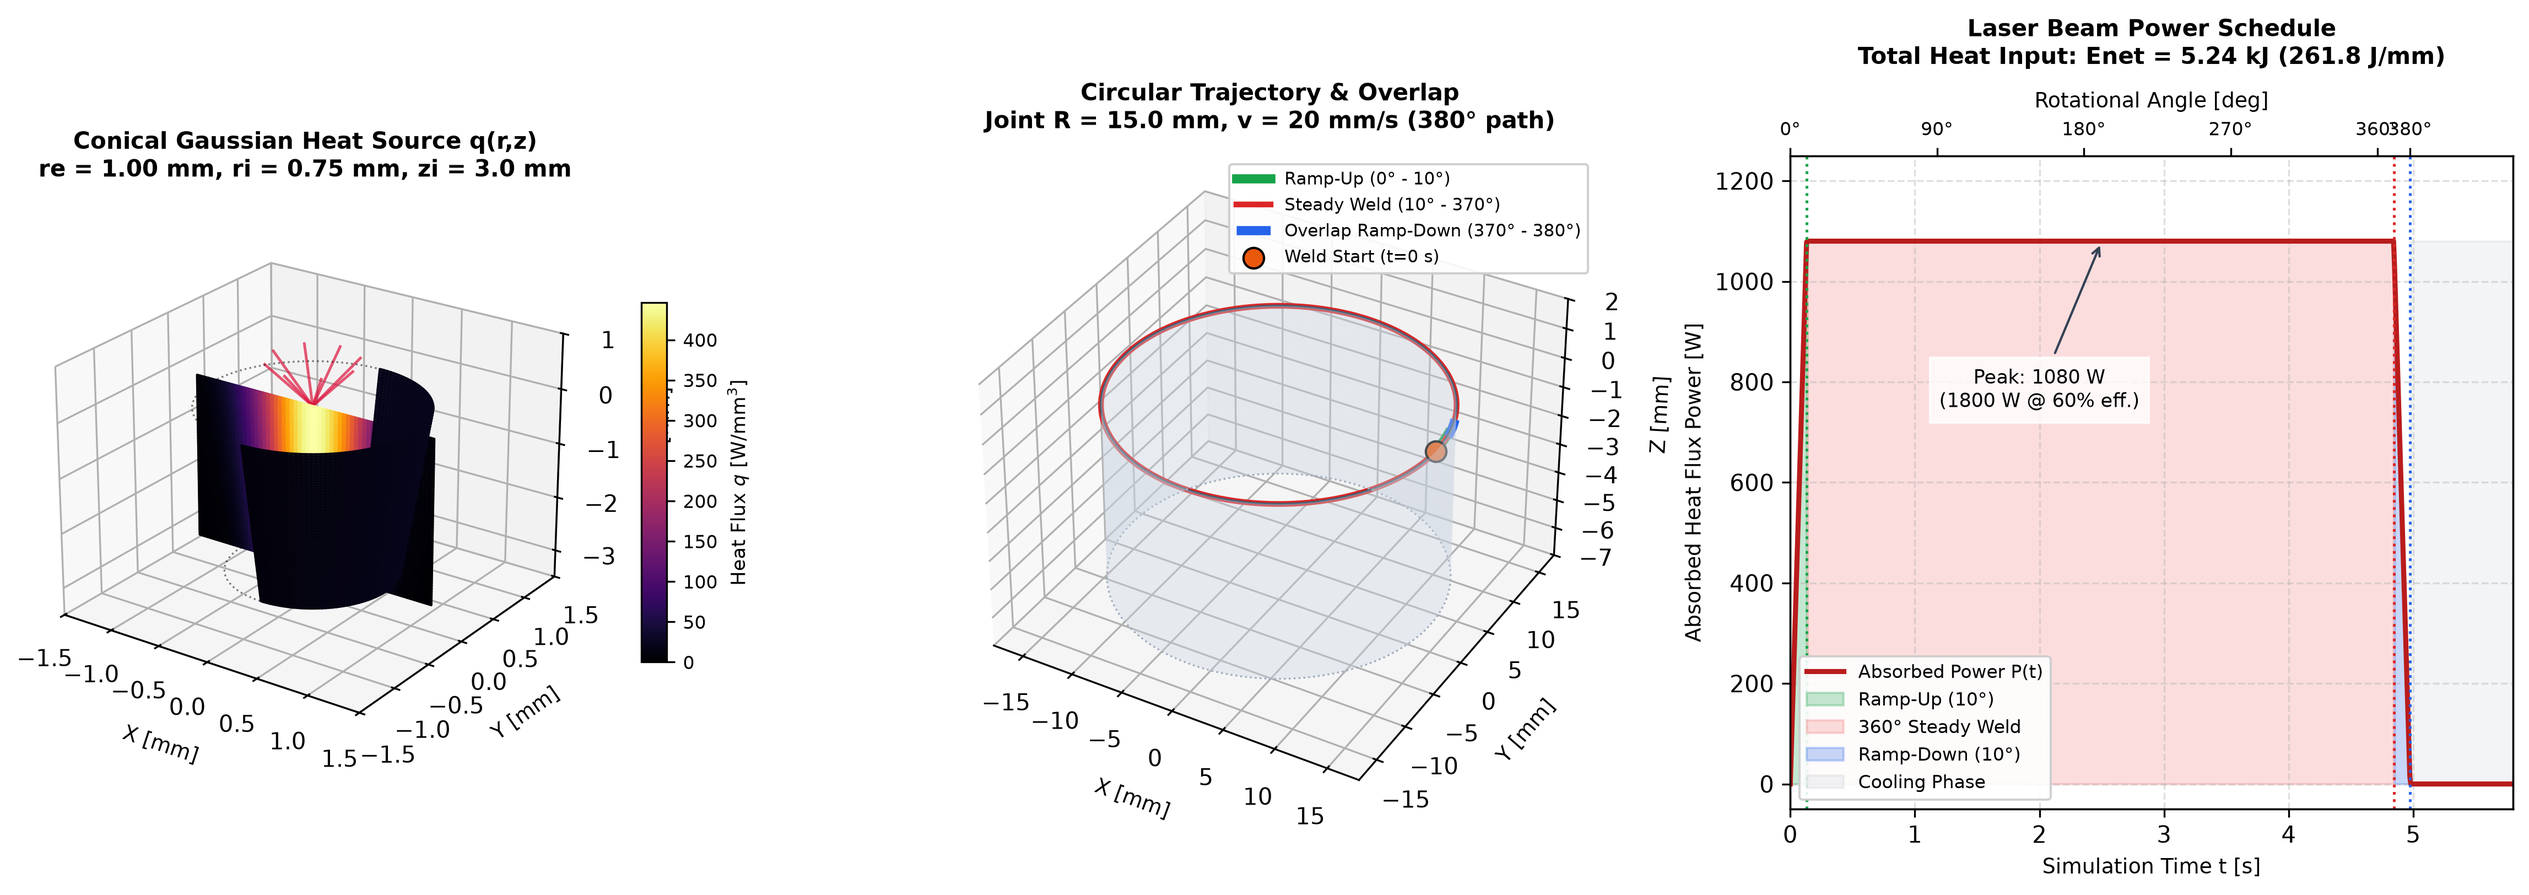
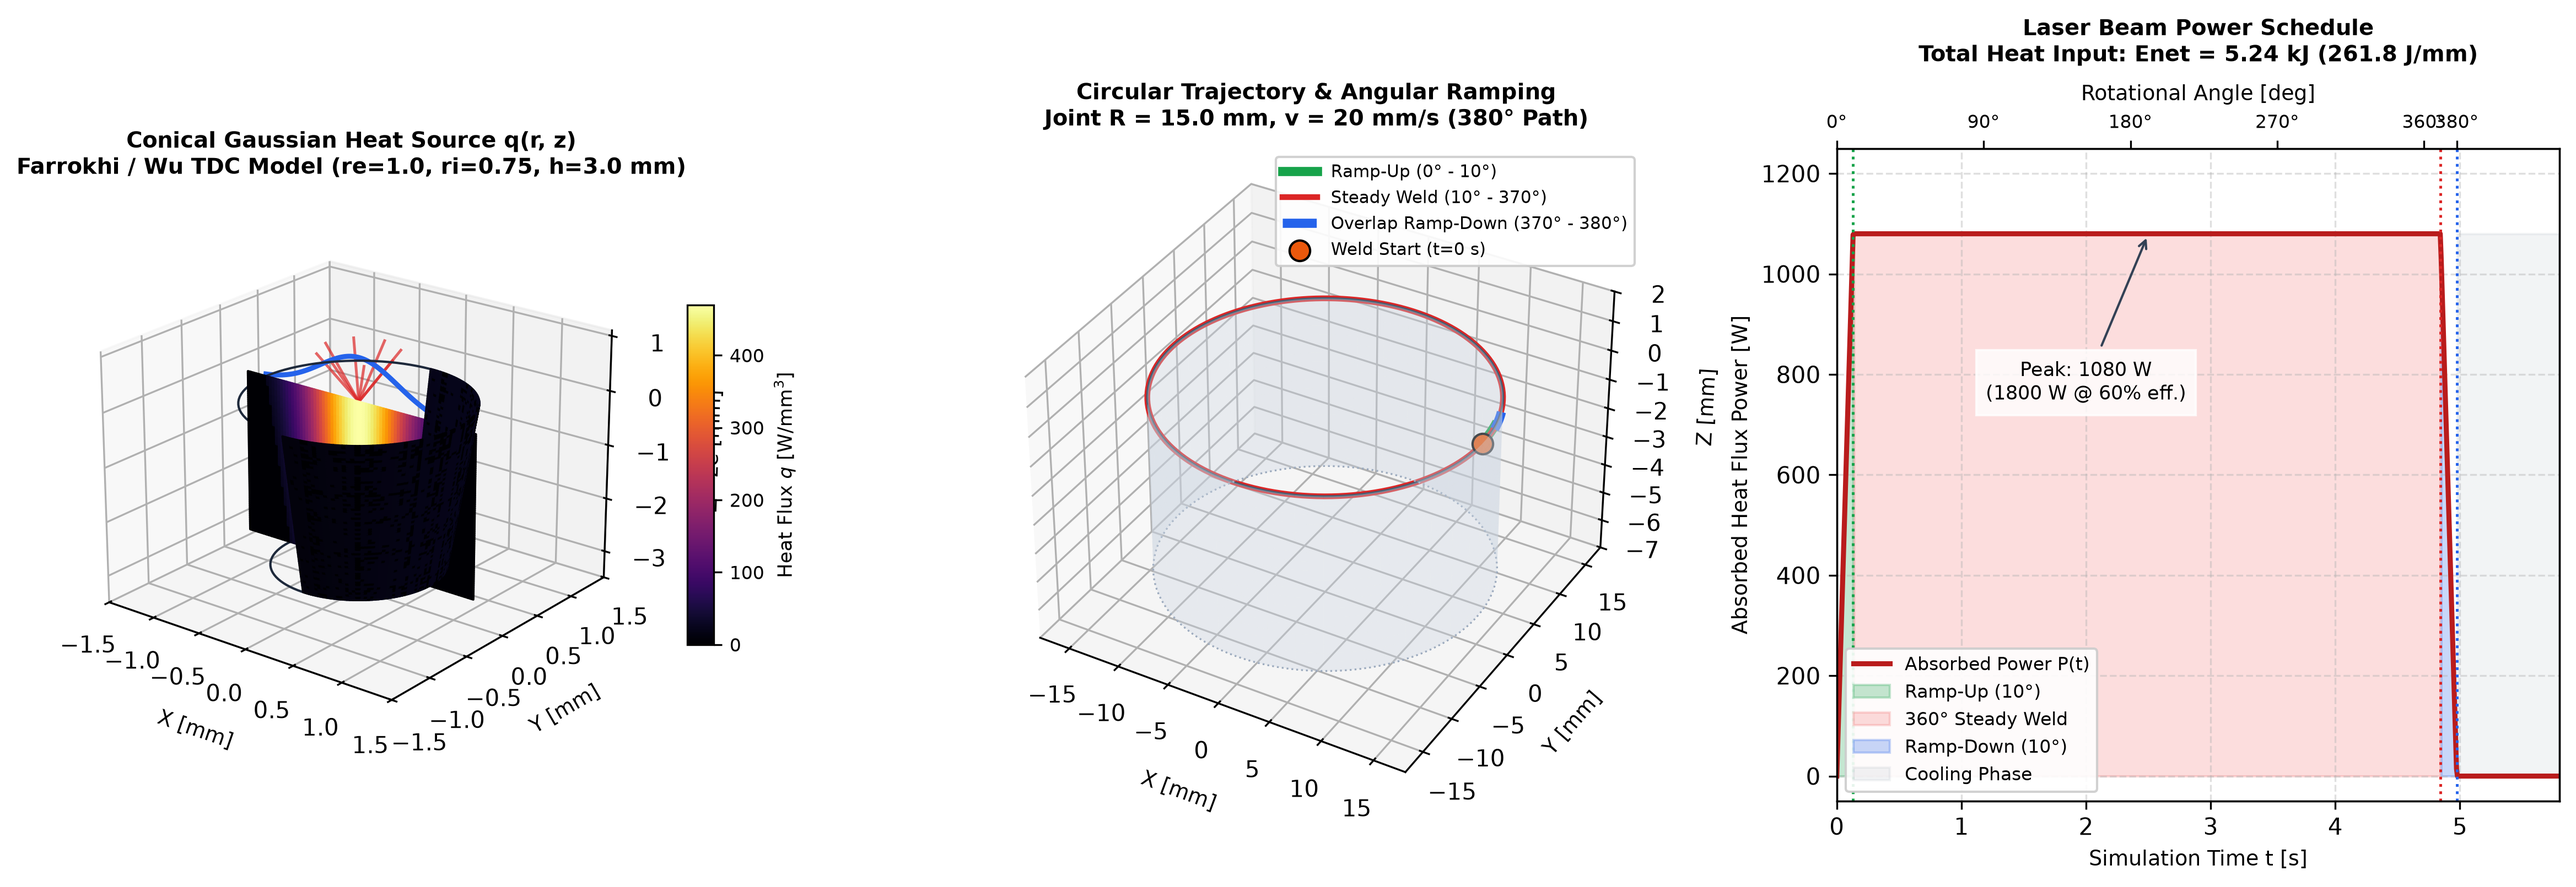
feat(02-dflux): align heat source formulation and references with conical Gaussian TDC literature
Replace double-ellipsoid Goldak references with Farrokhi et al. (2019) / Wu et al. (2006) Three-Dimensional Conical Gaussian model, incorporating the exact truncation scaling factor e^3/(e^3-1).

diff --git a/02_dflux_laser_welding/verify_model.py b/02_dflux_laser_welding/verify_model.py
@@ -61,8 +61,10 @@ def read_dflux_parameters(path=None):
                 p[var_name] = val
 
     p["OMEGA"] = (p["VBEAM"] / 60.0) / p["RADIUS"]
-    p["DENOM"] = (p["ZI"] / 3.0) * (p["R_I"]**2 + p["R_E"] * p["R_I"] + p["R_E"]**2)
-    p["PREFAC"] = p["ETA"] * p["QTOT"] * 3.0 / (math.pi * p["DENOM"])
+    e3 = math.exp(3.0)
+    p["E3_RATIO"] = e3 / (e3 - 1.0)
+    p["DENOM"] = p["ZI"] * (p["R_I"]**2 + p["R_E"] * p["R_I"] + p["R_E"]**2)
+    p["PREFAC"] = (9.0 * p["ETA"] * p["QTOT"] * p["E3_RATIO"]) / (math.pi * p["DENOM"])
     p["TOTDEG"] = p["RAMP_U_DEG"] + p["WELD_DEG"] + p["RAMP_D_DEG"]
     return p
 
@@ -85,7 +87,7 @@ def flux(P, xyz, t):
     r0 = P["R_E"] + (P["R_I"] - P["R_E"]) * zr / P["ZI"]
     rl = np.hypot(xyz[..., 0] - P["RADIUS"] * math.cos(th),
                   xyz[..., 1] - P["RADIUS"] * math.sin(th))
-    rcut = math.sqrt(-math.log(P["TOL"]) / 3.0) * r0
+    rcut = r0
     q = P["PREFAC"] * np.exp(-3.0 * rl**2 / r0**2) * amp
     q[(zr > P["ZI"]) | (rl > rcut)] = 0.0
     return q

diff --git a/02_dflux_laser_welding/README.md b/02_dflux_laser_welding/README.md
@@ -41,23 +41,25 @@ $$R_0(z) = r_e + (r_i - r_e) \frac{z}{z_i}$$
                    Bottom Root (z = z_i)
 ```
 
-### 1.2 Analytical Volume Energy Conservation
+### 1.2 Analytical Volume Energy Conservation (Farrokhi et al. / Wu et al. TDC Model)
 
-To guarantee that the integrated thermal power equals the net absorbed beam power ($P_{\text{abs}} = \eta \cdot Q_{\text{tot}}$), the peak flux $Q_0$ is derived analytically by integrating over the conical envelope:
+To guarantee that the integrated thermal power inside the conical envelope ($r \le R_0(z)$, $0 \le z \le z_i$) strictly equals the absorbed laser power ($P_{\text{abs}} = \eta \cdot Q_{\text{tot}}$), the peak flux $Q_0$ is derived analytically by integrating the Three-Dimensional Conical (TDC) Gaussian distribution:
 
-$$\int_V q(r, z) \, dV = \int_0^{z_i} \left[ \int_0^\infty Q_0 \exp\left( -3 \frac{r^2}{R_0(z)^2} \right) 2\pi r \, dr \right] dz$$
+$$\int_V q(r, z) \, dV = \int_0^{z_i} \left[ \int_0^{R_0(z)} Q_0 \exp\left( -3 \frac{r^2}{R_0(z)^2} \right) 2\pi r \, dr \right] dz$$
 
-Evaluating the radial Gaussian integral:
+Evaluating the radial Gaussian integral up to the cone boundary $r = R_0(z)$:
 
-$$\int_0^\infty \exp\left( -3 \frac{r^2}{R_0(z)^2} \right) 2\pi r \, dr = \frac{\pi R_0(z)^2}{3}$$
+$$\int_0^{R_0(z)} \exp\left( -3 \frac{r^2}{R_0(z)^2} \right) 2\pi r \, dr = \frac{\pi R_0(z)^2}{3} \left( 1 - e^{-3} \right) = \frac{\pi R_0(z)^2}{3} \cdot \frac{e^3 - 1}{e^3}$$
 
-Integrating along the penetration depth $z$:
+Integrating along the conical penetration depth $z \in [0, z_i]$:
 
-$$\int_0^{z_i} \frac{\pi R_0(z)^2}{3} \, dz = \frac{\pi}{3} \int_0^{z_i} \left[ r_e + (r_i - r_e) \frac{z}{z_i} \right]^2 dz = \frac{\pi z_i}{9} \left( r_e^2 + r_e r_i + r_i^2 \right)$$
+$$\int_0^{z_i} R_0(z)^2 \, dz = \int_0^{z_i} \left[ r_e + (r_i - r_e) \frac{z}{z_i} \right]^2 dz = \frac{z_i}{3} \left( r_e^2 + r_e r_i + r_i^2 \right)$$
 
-Equating to $\eta \cdot Q_{\text{tot}}$ yields the exact normalisation prefactor implemented in `DFLUX.f`:
+Combining terms and equating to the absorbed beam power $\eta \cdot Q_{\text{tot}}$ yields the exact analytical prefactor (Farrokhi et al. 2019, Wu et al. 2006, Liu et al. 2022):
 
-$$Q_0 = \frac{9 \, \eta Q_{\text{tot}}}{\pi z_i \left( r_e^2 + r_e r_i + r_i^2 \right)}$$
+$$Q_0 = \frac{9 \, \eta Q_{\text{tot}} \, e^3}{\pi (e^3 - 1) z_i \left( r_e^2 + r_e r_i + r_i^2 \right)}$$
+
+For $P_{\text{abs}} = 1080\text{ W}$, $r_e = 1.0\text{ mm}$, $r_i = 0.75\text{ mm}$, and $z_i = 3.0\text{ mm}$, the analytical peak core flux is $Q_0 = 469.35\text{ W/mm}^3$ ($4.6935 \times 10^5\text{ mW/mm}^3$).
 
 ![3D Conical Heat Source & Schedule](docs/heat_source_3d.png)
 
@@ -263,11 +265,13 @@ python compile_vtk_to_gif.py laser_mech_vtk.zip --fps 15 -o laser_welding_report
 
 ## 7. Standards & References
 
-1. **EN 1993-1-2:2005:** *Eurocode 3: Design of steel structures — Part 1-2: General rules — Structural fire design* (temperature-dependent thermal properties).
-2. **EN 10084:** *Case hardening steels — Technical delivery conditions* (chemical composition of 16MnCr5).
-3. **Andrews, K. W. (1965):** *Empirical formulae for the calculation of critical temperatures in steels*, Journal of the Iron and Steel Institute (JISI), 203, 721–727.
-4. **Goldak, J., Chakravarti, A., & Bibby, M. (1984):** *A new finite element model for welding heat sources*, Metallurgical Transactions B, 15(2), 299–305.
-5. **Koistinen, D. P., & Marburger, R. E. (1959):** *A general equation prescribing the extent of the austenite-martensite transformation in pure iron-carbon alloys and plain carbon steels*, Acta Metallurgica, 7(1), 59–60.
+1. **Farrokhi, F., Endelt, B., & Kristiansen, M. (2019):** *A numerical model for full and partial penetration hybrid laser welding of thick-section steels*, Optics & Laser Technology, 109, 629–642.
+2. **Wu, C. S., Wang, H. G., & Zhang, Y. M. (2006):** *A new heat source model for keyhole plasma arc welding in FEM analysis of the temperature profile*, Welding Journal, 85(12), 284–291.
+3. **Liu, M., Kouadri-Henni, A., & Malard, B. (2022):** *Simulation of low-cycle fatigue residual stress in DP600 steel laser-welded structure*, 11th International Conference on Residual Stresses (ICRS11), Nancy, France.
+4. **EN 1993-1-2:2005:** *Eurocode 3: Design of steel structures — Part 1-2: General rules — Structural fire design* (temperature-dependent thermal properties).
+5. **EN 10084:** *Case hardening steels — Technical delivery conditions* (chemical composition of 16MnCr5).
+6. **Andrews, K. W. (1965):** *Empirical formulae for the calculation of critical temperatures in steels*, Journal of the Iron and Steel Institute (JISI), 203, 721–727.
+7. **Koistinen, D. P., & Marburger, R. E. (1959):** *A general equation prescribing the extent of the austenite-martensite transformation in pure iron-carbon alloys and plain carbon steels*, Acta Metallurgica, 7(1), 59–60.
 
 ---
 
